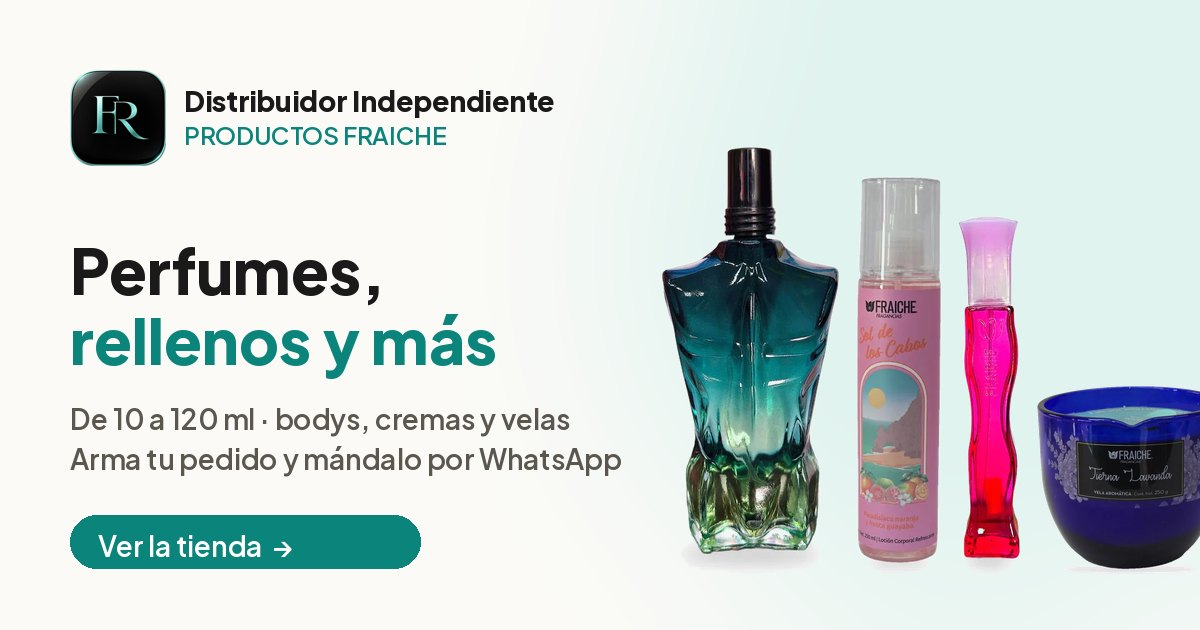
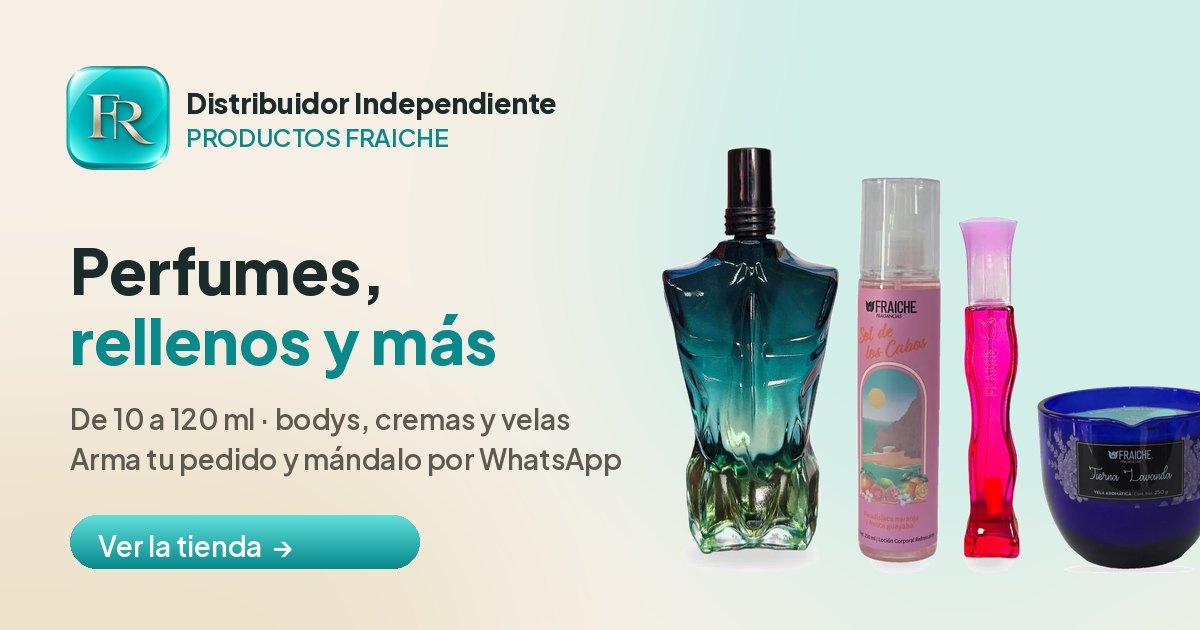
Ícono nuevo, paleta beige / turquesa / blanco y más vidrio líquido con animaciones
- Ícono FR turquesa con letras doradas: logo del encabezado, favicon, ícono de pantalla de inicio
  (normal y "maskable") e imagen para compartir por WhatsApp.
- Paleta: fondo beige claro, turquesa Fraiche y blancos, con filos dorados suaves.
- Botones como gotas de vidrio turquesa con reflejo, barrido de luz al pasar y "aplastado" al tocar.
- Pastillas, categorías, opciones y botones de ícono de vidrio esmerilado; lo elegido en turquesa.
- Tarjetas con brillo de vidrio que sigue el dedo o el mouse y se levantan al pasar.
- Logo que "respira", producto del carrusel que flota y secciones que aparecen al ir bajando.
- Todo respeta "reducir movimiento".

Claude-Session: https://claude.ai/code/session_01HAfdEac2VUwWm3qe8GQGQT

Changed region(s): [[0.0, 0.4825, 0.4317, 1.0], [0.0308, 0.0905, 0.4625, 0.2714], [0.3083, 0.5127, 0.3392, 0.5429]]

diff --git a/estilos.css b/estilos.css
@@ -646,3 +646,112 @@ button:active:not(:disabled),label.opt:active,label.var:active{transform:scale(.
 /* forma de pago en el carrito */
 .pago-box .clabe{margin:8px 0 2px}
 .pago-box .small{margin-top:4px}
+
+/* =========================================================
+   Paleta Fraiche (beige, turquesa y blanco) + vidrio líquido
+   Va al final para que mande sobre lo anterior.
+   ========================================================= */
+:root{
+  --bg:#f5efe5; --surface:#fffdf9; --ink:#1b2a2a; --muted:#6c675d; --line:rgba(70,55,30,.11);
+  --accent:#08898b; --accent-2:#2cc9c5; --on-accent:#ffffff; --accent-soft:#dbf3f1;
+  --beige:#ecdfc7; --beige-ink:#6a5530; --oro:#c9a96a;
+  --dark:#163a3a; --on-dark:#ffffff;
+  --turq-1:#5fe0dc; --turq-2:#16b9b7; --turq-3:#07898c;
+  --glass:rgba(255,253,249,.62);
+  --glass-strong:rgba(255,253,249,.82);
+  --glass-edge:rgba(255,255,255,.75);
+  --glass-shine:linear-gradient(140deg,rgba(255,255,255,.7),rgba(255,255,255,0) 45%);
+  --shadow:0 1px 2px rgba(60,45,20,.06),0 10px 28px rgba(60,45,20,.08);
+  --lg-boton:linear-gradient(165deg,var(--turq-1) 0%,var(--turq-2) 42%,var(--turq-3) 100%);
+  --lg-borde:inset 0 1px 0 rgba(255,255,255,.65),inset 0 -3px 8px rgba(0,70,72,.22);
+}
+body{background:var(--bg)}
+/* manchas de color: turquesa y beige */
+body::before{background:radial-gradient(28vmax 28vmax at 15% 18%,rgba(44,201,197,.30),transparent 70%),
+  radial-gradient(32vmax 32vmax at 85% 28%,rgba(214,190,145,.32),transparent 70%),
+  radial-gradient(36vmax 36vmax at 45% 92%,rgba(22,185,183,.18),transparent 70%)}
+
+/* ---- botones principales: gota de vidrio turquesa ---- */
+.primary,.slide .cta,.add,.copiar,.vacio-cta,.qc-go,.pedir,#bvEmpezar{
+  position:relative;overflow:hidden;isolation:isolate;background:var(--lg-boton);color:#fff;
+  box-shadow:var(--lg-borde),0 8px 18px rgba(8,137,139,.28);border:0;
+  transition:transform .35s var(--spring),box-shadow .3s,filter .3s}
+.primary::before,.slide .cta::before,.add::before,.copiar::before,.vacio-cta::before,.qc-go::before,.pedir::before,#bvEmpezar::before{
+  content:"";position:absolute;left:8%;right:8%;top:2px;height:46%;border-radius:999px;pointer-events:none;z-index:1;
+  background:linear-gradient(180deg,rgba(255,255,255,.6),rgba(255,255,255,0))}
+.primary::after,.slide .cta::after,.add::after,.copiar::after,.vacio-cta::after,.pedir::after,#bvEmpezar::after{
+  content:"";position:absolute;inset:0;pointer-events:none;z-index:1;
+  background:linear-gradient(110deg,transparent 30%,rgba(255,255,255,.55) 48%,transparent 66%);transform:translateX(-130%)}
+@media (hover:hover){
+  .primary:not(:disabled):hover::after,.slide .cta:hover::after,.add:hover::after,.copiar:hover::after,.vacio-cta:hover::after,.pedir:hover::after,#bvEmpezar:hover::after{animation:lg-barre .8s ease}
+  .primary:not(:disabled):hover,.slide .cta:hover,.add:hover,.copiar:hover,.pedir:hover{transform:translateY(-2px);box-shadow:var(--lg-borde),0 12px 24px rgba(8,137,139,.34)}
+}
+.primary:not(:disabled):active,.slide .cta:active,.add:active,.copiar:active,.vacio-cta:active,.qc-go:active,.pedir:active,#bvEmpezar:active{
+  transform:scale(.94);filter:brightness(1.06);transition-duration:.12s}
+.primary:disabled{background:linear-gradient(165deg,#bfe6e4,#9fd3d2)}
+@keyframes lg-barre{to{transform:translateX(130%)}}
+
+/* ---- superficies y controles de vidrio ---- */
+.pill,.mas,.icon-btn,.chip-aroma,.qop,.var,.tsize,.seg label span,.gchips button,.vgen .pill,.link-btn,.close{
+  background:var(--glass);-webkit-backdrop-filter:blur(12px) saturate(1.6);backdrop-filter:blur(12px) saturate(1.6);
+  border:1px solid var(--glass-edge);box-shadow:inset 0 1px 0 rgba(255,255,255,.8),0 2px 8px rgba(60,45,20,.06);
+  transition:transform .35s var(--spring),background .25s,box-shadow .25s,border-color .25s}
+.icon-btn:hover{background:var(--glass-strong)}
+.pill:active,.mas:active,.icon-btn:active,.chip-aroma:active,.qop:active,.var:active,.tsize:active,.seg label:active span,.gchips button:active,.close:active{transform:scale(.93);transition-duration:.12s}
+/* elegido: vidrio turquesa con borde dorado suave */
+.pill[aria-pressed=true],.gchips button[aria-pressed=true],.vgen .pill[aria-pressed=true],.seg input:checked+span{
+  background:var(--lg-boton);color:#fff;border-color:rgba(201,169,106,.55);
+  box-shadow:var(--lg-borde),0 6px 14px rgba(8,137,139,.25)}
+.var.on,.var:has(input:checked),.tsize.on{border-color:var(--turq-2);background:linear-gradient(180deg,rgba(219,243,241,.9),rgba(255,253,249,.8));
+  box-shadow:inset 0 1px 0 #fff,0 0 0 2px rgba(22,185,183,.25),0 8px 18px rgba(8,137,139,.14)}
+
+/* categorías: burbuja de vidrio con brillo y borde dorado al elegir */
+.cat .ring{position:relative;transition:transform .45s var(--spring),box-shadow .3s}
+.cat .ring.foto{border:1px solid var(--glass-edge);box-shadow:inset 0 1px 0 #fff,0 6px 16px rgba(60,45,20,.10)}
+.cat .ring::after{content:"";position:absolute;inset:0;border-radius:50%;pointer-events:none;
+  background:radial-gradient(70% 45% at 35% 18%,rgba(255,255,255,.75),rgba(255,255,255,0) 70%)}
+.cat:active .ring{transform:scale(.88)}
+@media (hover:hover){.cat:hover .ring{transform:translateY(-3px) scale(1.04)}}
+.cat[aria-pressed=true] .ring{box-shadow:0 0 0 2.5px var(--bg),0 0 0 4.5px var(--turq-2),0 0 0 6px rgba(201,169,106,.45),0 10px 22px rgba(8,137,139,.22)}
+
+/* tarjetas: brillo de vidrio que sigue el dedo o el mouse */
+.card,.acard,.qa,.resena,.negocio div{position:relative}
+.card::before,.acard::before{content:"";position:absolute;inset:0;border-radius:inherit;pointer-events:none;z-index:2;opacity:0;
+  background:radial-gradient(180px 180px at var(--mx,50%) var(--my,0%),rgba(255,255,255,.55),rgba(255,255,255,0) 70%);transition:opacity .35s}
+.card.luz::before,.acard.luz::before{opacity:1}
+.card{transition:transform .45s var(--spring),box-shadow .35s}
+@media (hover:hover){.card:hover{transform:translateY(-4px);box-shadow:0 2px 4px rgba(60,45,20,.06),0 18px 34px rgba(60,45,20,.13)}}
+.card:active{transform:scale(.97)}
+.card .media{box-shadow:inset 0 0 0 1px rgba(255,255,255,.7)}
+
+/* encabezado y barra de abajo: vidrio con filo dorado */
+.top{background:rgba(245,239,229,.6);border-bottom:1px solid rgba(201,169,106,.22)}
+.bottom{background:rgba(255,253,249,.62);border-top:1px solid rgba(201,169,106,.25);
+  box-shadow:0 -8px 26px rgba(60,45,20,.08),inset 0 1px 0 rgba(255,255,255,.8)}
+.brand-mark{border-radius:12px;filter:drop-shadow(0 4px 10px rgba(8,137,139,.25));animation:lg-respira 6s ease-in-out infinite}
+@keyframes lg-respira{50%{transform:translateY(-1.5px) rotate(-2deg)}}
+
+/* carrusel: tarjeta de vidrio claro y producto que flota */
+.slide{background:radial-gradient(120% 90% at 100% 100%,rgba(44,201,197,.30),transparent 60%),
+  linear-gradient(135deg,rgba(255,253,249,.95),rgba(236,223,199,.55));border:1px solid var(--glass-edge);box-shadow:var(--shadow),inset 0 1px 0 #fff}
+.slide-art.foto img{animation:lg-flota 5s ease-in-out infinite;box-shadow:0 14px 30px rgba(60,45,20,.14),inset 0 0 0 1px #fff}
+@keyframes lg-flota{50%{transform:translateY(-7px)}}
+.dots button[aria-selected=true]{background:var(--lg-boton)}
+
+/* ventanas: vidrio más blanco con filo */
+.sheet{background:rgba(255,253,249,.86);border:1px solid rgba(255,255,255,.8);box-shadow:0 -10px 40px rgba(60,45,20,.18),inset 0 1px 0 #fff}
+.badge{background:rgba(219,243,241,.85);color:var(--turq-3);-webkit-backdrop-filter:blur(6px);backdrop-filter:blur(6px);border:1px solid rgba(255,255,255,.7)}
+.check{background:radial-gradient(circle at 30% 25%,var(--turq-1),var(--turq-3))}
+.tarjeta{background:radial-gradient(120% 90% at 100% 0,rgba(255,255,255,.3),transparent 55%),linear-gradient(135deg,var(--turq-2),#0a8f91 55%,#06686b);
+  border:1px solid rgba(201,169,106,.5)}
+.tj-s.premio{border-color:#ead8a8;color:#f6e7bf}
+
+/* aparecer al ir bajando */
+.revela{opacity:0;transform:translateY(22px) scale(.985);transition:opacity .7s var(--ease),transform .8s var(--spring)}
+.revela.visto{opacity:1;transform:none}
+
+@media (prefers-reduced-motion:reduce){
+  .brand-mark,.slide-art.foto img{animation:none}
+  .revela{opacity:1;transform:none;transition:none}
+  .primary:hover::after,.add:hover::after{animation:none}
+}

diff --git a/tienda.js b/tienda.js
@@ -1128,3 +1128,30 @@ if (!store.get('fr_bienvenida', false)) setTimeout(() => { if (!document.querySe
 if (WHATSAPP) $('#waFlota').href = `https://wa.me/${WHATSAPP}?text=${encodeURIComponent('¡Hola! Tengo una pregunta sobre los productos Fraiche.')}`; else $('#waFlota').hidden = true;
 mueveGota(false); if (document.fonts) document.fonts.ready.then(() => mueveGota(false));
 window.tienda = { mensaje, P, AROMAS, parecidos, get cart() { return cart; } };   // usado por las pruebas
+
+/* ---------- vidrio líquido: brillo que sigue el dedo y secciones que aparecen al bajar ---------- */
+(function vidrio() {
+  const BRILLO = '.card, .acard';
+  let actual = null;
+  const mueve = e => {
+    const el = e.target.closest && e.target.closest(BRILLO);
+    if (actual && actual !== el) actual.classList.remove('luz');
+    actual = el;
+    if (!el) return;
+    const r = el.getBoundingClientRect();
+    el.style.setProperty('--mx', `${e.clientX - r.left}px`);
+    el.style.setProperty('--my', `${e.clientY - r.top}px`);
+    el.classList.add('luz');
+  };
+  document.addEventListener('pointermove', mueve, { passive: true });
+  document.addEventListener('pointerdown', mueve, { passive: true });
+  document.addEventListener('pointerleave', () => { if (actual) actual.classList.remove('luz'); actual = null; });
+  document.addEventListener('pointerup', e => { if (e.pointerType !== 'mouse' && actual) { const a = actual; setTimeout(() => a.classList.remove('luz'), 350); } }, { passive: true });
+
+  // aparecer al bajar (no en los productos, que ya tienen su animación)
+  if (calma() || !('IntersectionObserver' in window)) return;
+  const io = new IntersectionObserver(es => es.forEach(x => { if (x.isIntersecting) { x.target.classList.add('visto'); io.unobserve(x.target); } }),
+    { rootMargin: '0px 0px -8% 0px', threshold: .08 });
+  document.querySelectorAll('.quiz-cta, #como > h2, .steps li, .esencias > div, .relleno-tip, .negocio, .resenas, .foot .wrap')
+    .forEach((el, i) => { el.classList.add('revela'); el.style.transitionDelay = `${(i % 4) * 70}ms`; io.observe(el); });
+})();

diff --git a/index.html b/index.html
@@ -17,7 +17,7 @@
 <meta property="og:image:height" content="630">
 <meta property="og:locale" content="es_MX">
 <meta name="twitter:card" content="summary_large_image">
-<meta name="theme-color" content="#fbfaf7">
+<meta name="theme-color" content="#f5efe5">
 <link rel="icon" type="image/png" sizes="192x192" href="img/logo/logo-192.png">
 <link rel="icon" type="image/png" sizes="96x96" href="img/logo/logo-96.png">
 <link rel="apple-touch-icon" href="img/logo/apple-touch-icon.png">
